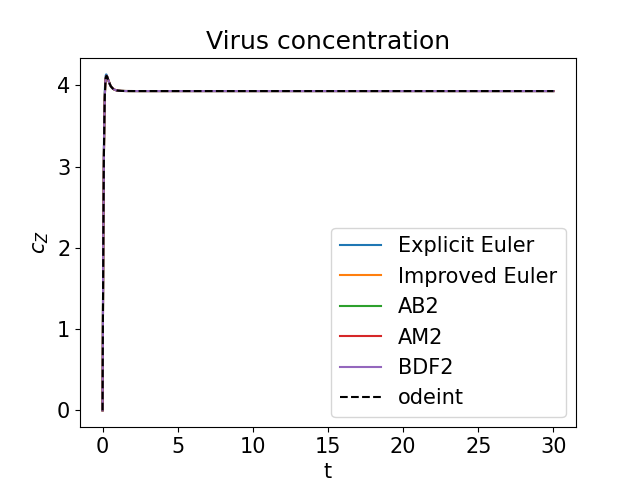
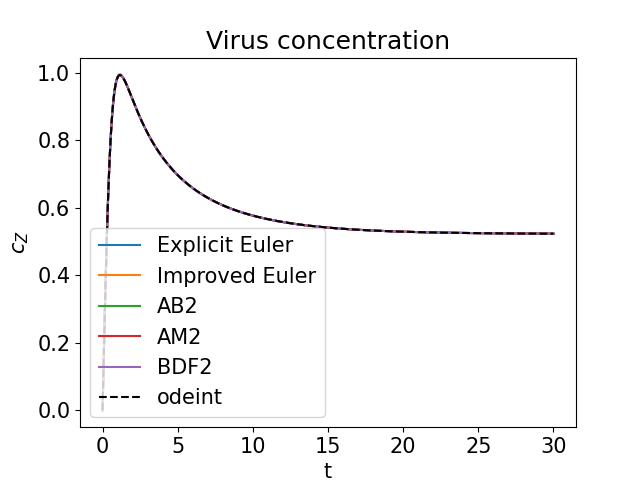
working-all

diff --git a/Project2/source_files/not__main__.py b/Project2/source_files/not__main__.py
@@ -2,10 +2,12 @@ import numpy as np
 import matplotlib.pyplot as plt
 from scipy.integrate import odeint
 from exercise import *
+import os
 
 # ---------------------------------------------------------------------
 # main program
 # ---------------------------------------------------------------------
+
 
 V = 25  # biochemical reactor volume [m^3]
 Q1 = 2.5  # discharge of the first pipe [m^3/min]
@@ -26,7 +28,7 @@ b_AB2 = np.array([-0.5, 1.5, 0])
 a_AM2 = np.array([0, -1, 1])
 b_AM2 = np.array([-1 / 12, 2 / 3, 5 / 12])
 
-# Parameters for BDF-2 two-step method
+# Parameters for BDF-2 two-step method 
 a_BDF2 = np.array([1 / 2, -2, 3 / 2])
 b_BDF2 = np.array([0, 0, 1])
 
@@ -34,20 +36,58 @@ num_solvers = 5
 # h = np.array([0.1, 0.01, 1e-3, 1e-4])
 h = np.array([0.1, 0.01])
 cp_err = np.zeros((len(h), num_solvers))
-
+y1_app_values = []
 for i in range(len(h)):
     h_ = h[i]
     t = np.arange(t0, te, h_)
     t = np.append(t, te)
-
     y_app = odeint(f, y0, t, tfirst=True)
+    # y1_app_values.append(y_app[1])
+
+    # y1 = y_app[1]
+    # print(f"y_app: {y_app[:5]}")
+    # y1 = y_app[1]
+    # y1 = np.array(y1)
+    # print(f"this is what is being sent to twostep method as y1 param: {type(y1)}")
     y_euler_expl = euler_expl(f, y0, t)
+    if y_euler_expl is not None:
+        # print(f"y_euler_expl: {y_euler_expl[:5]}")
+        pass
+    else:
+        print("y_euler_expl is empty")
+
     y_euler_impr = euler_impr(f, y0, t)
+    if y_euler_impr is not None:
+        # print(f"y_euler_impr: {y_euler_impr[:5]}")
+        pass
+    else:
+        print("y_euler_impr is empty")
     y_AB2 = twostep(f, [], y0, [], t, a_AB2, b_AB2)
+    if y_AB2 is not None:
+        # print(f"f{y_AB2}: {y_AB2[:5]}")
+        pass
+    else:
+        print("y_ABE is empty")
+
     y_AM2 = twostep(f, Jf, y0, [], t, a_AM2, b_AM2)
+    if y_AM2 is not None:
+        # print(f"y_AME: {y_AM2[:5]}")
+        pass
+    else:
+        print("y_AME is emtpy")
+
     y_BDF2 = twostep(f, Jf, y0, [], t, a_BDF2, b_BDF2)
+    if y_BDF2 is not None:
+        pass
+        # return print(f"y_BDFE: {y_BDF2[:5]}")
+    else:
+        print("y_BDF2 is empty")
 
     col = 2
+    # print(f"y_euler_expl[:, col] {(y_euler_expl[:10, col])}")
+    # print(f"y_app[:, col]): ({y_app[10, col]})")
+
+
     # absolute error for vaccine product concentration
     cp_err[i, :] = np.array([np.max(np.abs(y_euler_expl[:, col] - y_app[:, col])),
                              np.max(np.abs(y_euler_impr[:, col] - y_app[:, col])),
@@ -55,7 +95,12 @@ for i in range(len(h)):
                              np.max(np.abs(y_AM2[:, col] - y_app[:, col])),
                              np.max(np.abs(y_BDF2[:, col] - y_app[:, col]))])
 
+
+    # print(f"y1 using odeint is: {y_app[1]}")
+    # print(f"y1 using y_AB2 is: {y_AB2[1]}")
+
 # Display y(te) for final step size
+print(f"cp_err: {cp_err}")
 m = len(t) - 1
 print('Concentrations c = (c_Z,c_C,c_P) at t_end = 30 min for h = ', h_, '\n')
 print('     odeint : ', y_app[m, :])
@@ -68,7 +113,17 @@ print('       BDF2 : ', y_BDF2[m, :])
 # --------------------------------------------------------------------------
 # plot concentrations c_z(t), c_C(t), c_P(t)  [for h(end)]
 # --------------------------------------------------------------------------
+
 path = "/mnt/36C22184C2214987/Coursework/TUHH/Numerics for ODEs/Code/Project2/results/"
+print(path)
+# path = f"{cwd}/results" # <--- change this path to that of your folder
+# if(os.path.exists(path) is False):
+#   print("new path created")
+#   path = os.path.join(path, 'results')
+# else:
+#   print("old path used")
+#   path = path
+#TODO: Fix AB2, it doesn't work; also BFD2 doesn't work, and AM2 doesn't work. Some mate, something is wrong with two step method;
 fs = 15  # FontSize
 title = ['Virus concentration', 'Chemical concentration', 'Vaccine product concentration']
 ylabel = ['$c_Z$', '$c_C$', '$c_P$']
@@ -76,9 +131,10 @@ fname = ['c_Z.png', 'c_C.png', 'c_P.png']
 for i in range(3):
     plt.figure()
     plt.rcParams.update({'font.size': fs})
-    plt.plot(t, y_euler_expl[:, i], t, y_euler_impr[:, i], t, y_AB2[:, i], t, y_AM2[:, i], t, y_BDF2[:, i], t,
-             y_app[:, i], '--k')
+    plt.plot(t,y_euler_expl[:,i],t,y_euler_impr[:,i],t,y_AB2[:,i],t,y_AM2[:,i],t,y_BDF2[:,i],t,y_app[:,i],'--k')
+    # plt.plot(t, y_AM2[:, i], t, y_app[:, i], '--k')
     plt.legend(['Explicit Euler', 'Improved Euler', 'AB2', 'AM2', 'BDF2', 'odeint'], loc='best')
+    # plt.legend(['other method', 'odeint'], loc='best')
     plt.title(title[i])
     plt.xlabel('t')
     plt.ylabel(ylabel[i])
@@ -89,11 +145,7 @@ for i in range(3):
 # --------------------------------------------------------------------------
 plt.figure()
 plt.rcParams.update({'font.size': fs})
-# plt.loglog(h, cp_err[:, 0], 'b', h, cp_err[:, 1], 'r', h, cp_err[:, 2], 'g--', h, cp_err[:, 3], 'k', h, cp_err[:, 4], 'm')
-markers = ['b-o', 'r-s', 'g-^', 'k-D', 'm-*']
-labels = ['Explicit Euler', 'Improved Euler', 'AB2', 'AM2', 'BDF2']
-for i in range(5):
-    plt.loglog(h, cp_err[:, i], markers[i], label=labels[i], markersize=8, linewidth=1.5)
+plt.loglog(h, cp_err[:, 0], 'b', h, cp_err[:, 1], 'r', h, cp_err[:, 2], 'g', h, cp_err[:, 3], 'k', h, cp_err[:, 4], 'm')
 plt.title('Error vs stepsize for c_P')
 plt.legend(['Explicit Euler', 'Improved Euler', 'AB2', 'AM2', 'BDF2'], loc='best')
 plt.xlabel('h')
@@ -114,7 +166,7 @@ y_AB2 = twostep(f, [], y0, [], t, a_AB2, b_AB2)
 y_AM2 = twostep(f, Jf, y0, [], t, a_AM2, b_AM2)
 y_BDF2 = twostep(f, Jf, y0, [], t, a_BDF2, b_BDF2)
 
-# alpha = np.arange(0.5,1.55,0.05)
+# alpha = np.arange(0.5,1.5,0.05)
 alpha = np.arange(0.7, 1.3, 0.05)
 delta = np.zeros((num_solvers, len(alpha)))
 j = 0  # c_z
@@ -124,7 +176,7 @@ j = 0  # c_z
 k_ = np.array([-1, -1, 2]) * k
 
 for i in range(len(alpha)):
-    Q_in = np.array([alpha[i] * Q1, Q2, 0])  # variation of Q_in(1) = Q1 by at most +/- 50% .
+    Q_in = np.array([alpha[i] * Q1, Q2, 0])  # variation of Q_in(1) = Q1 by at most +/- 30%
     Q_out = Q_in[0] + Q_in[1]
     c_in = np.array([cz0, cc0, 0])
     k_ = np.array([-1, -1, 2]) * k

diff --git a/Project2/source_files/exercise.py b/Project2/source_files/exercise.py
@@ -257,13 +257,13 @@ def f(t, c):
     # edit the code here#
     ####################
     cz, cc, cp = c
-    dcz_dt = (Q1 * cz0) - (Q3 * cz) - (k * cc * cz)
+    dcz_dt = ((Q1 * cz0)/V) - ((Q3 * cz)/V) - (k  * cc * cz)
     # print(f"dcz_dt : {dcz_dt}")
 
-    dcc_dt = (Q2 * cc0) - (Q3 * cc) - (k  * cc * cz)
+    dcc_dt = ((Q2 * cc0)/V) - ((Q3 * cc)/V) - (k  * cc * cz)
     # print(f"dcc_dt: {dcc_dt}")
 
-    dcp_dt = 0 - (Q3 * cp) + 2 * k * cc * cz
+    dcp_dt = 0 - ((Q3 * cp)/V) + (2 * k  * cc * cz)
     # print(f"dcc_dt: {dcc_dt}")
     dcdt = [dcz_dt, dcc_dt, dcp_dt]
     dcdt = np.array(dcdt)
@@ -303,9 +303,9 @@ def Jf(t, c):
     ####################
     cz, cc, cp = c
     dfdc = [
-        -Q3 / V - k * cc, -k * cz, 0,
-        -k * cc, -Q3 / V - k * cz, 0,
-        2 * k * cc, 2 * k * cz, -Q3
+        -Q3 / V - k * cc,  -k * cz,  0,
+        -k * cc,  -Q3 / V - k * cz,  0,
+        2 * k * cc, 2 * k * cz, -Q3/V
     ]
 
     dfdc = np.array(dfdc).reshape(3, 3)
